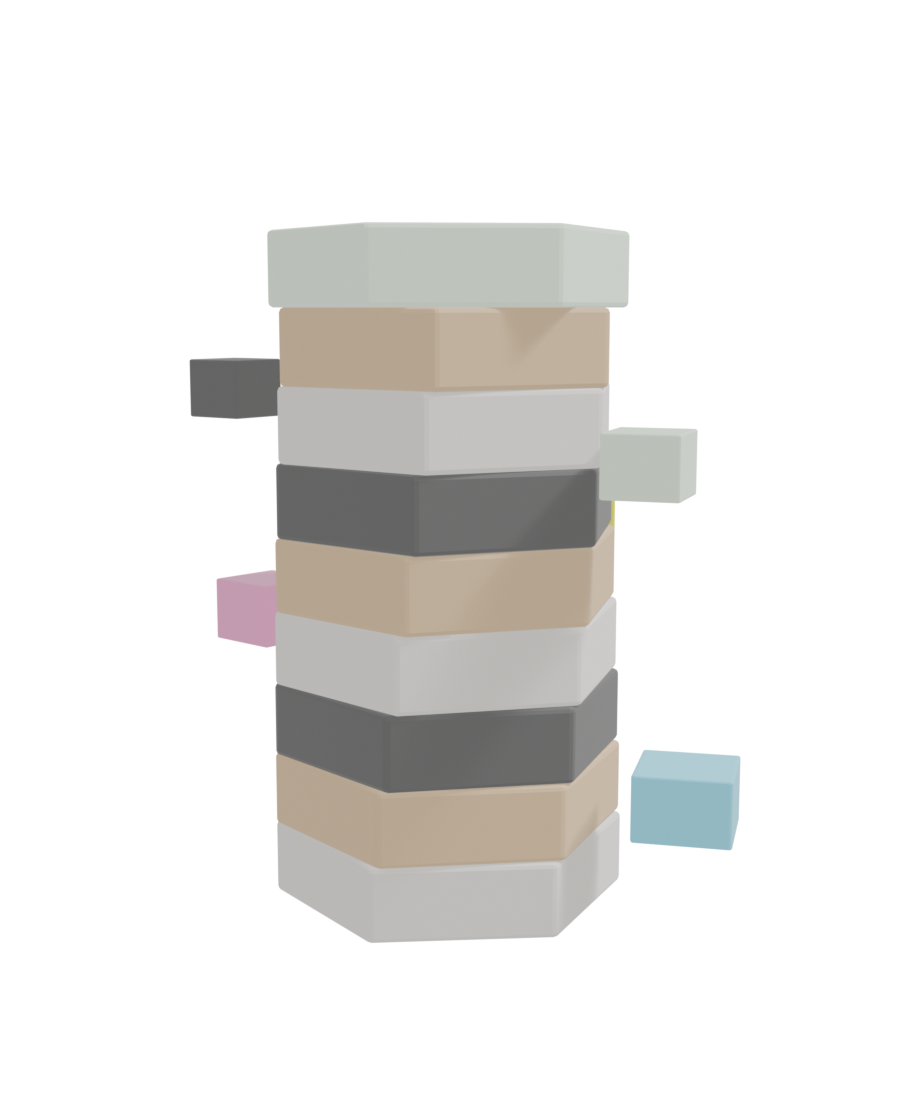
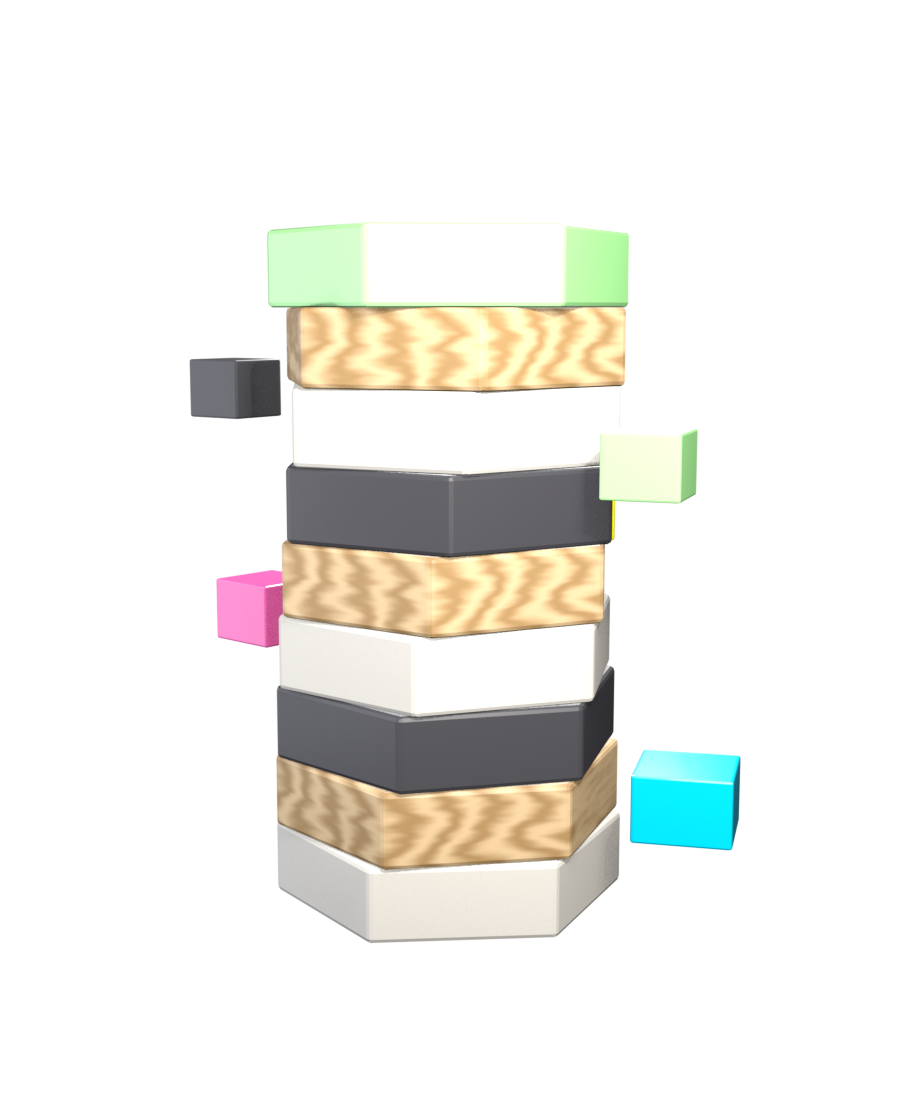
feat(site): photoreal Blender totem render as hero img (wood grain, speckled concrete, vivid accents, studio light); drop flaky WebGL path

Changed region(s): [[0.2178, 0.1875, 0.84, 0.8438]]

diff --git a/site/app/components/HeroScene.vue b/site/app/components/HeroScene.vue
@@ -1,105 +1,22 @@
 <script setup lang="ts">
-// The Blender totem render is a plain server-rendered <img> - it shows in every
-// browser with zero JS or WebGL. WebGL is pure enhancement: only if the GPU
-// actually draws pixels do we fade the image out and reveal the live canvas.
-const host = ref<HTMLElement | null>(null)
-const glReady = ref(false)
-let cleanup: (() => void) | null = null
-
-onMounted(async () => {
-  const el = host.value
-  if (!el) return
-  let THREE: typeof import('three')
-  try { THREE = await import('three') } catch { return }
-
-  let renderer: THREE.WebGLRenderer
-  try { renderer = new THREE.WebGLRenderer({ antialias: true, alpha: true, preserveDrawingBuffer: true }) } catch { return }
-
-  const reduce = window.matchMedia('(prefers-reduced-motion: reduce)').matches
-  const scene = new THREE.Scene()
-  const camera = new THREE.PerspectiveCamera(45, 1, 0.1, 100)
-  camera.position.set(0, 0.4, 7); camera.lookAt(0, 0, 0)
-  renderer.setPixelRatio(Math.min(window.devicePixelRatio, 1.75))
-  renderer.setClearColor(0x000000, 0)
-  renderer.outputColorSpace = THREE.SRGBColorSpace
-  el.appendChild(renderer.domElement)
-
-  scene.add(new THREE.AmbientLight(0xffffff, 0.9))
-  const key = new THREE.DirectionalLight(0xffffff, 2.3); key.position.set(4, 7, 6); scene.add(key)
-  const rim = new THREE.DirectionalLight(0xffffff, 0.7); rim.position.set(-5, 2, -4); scene.add(rim)
-
-  const m = (c: number, r = 0.85) => new THREE.MeshStandardMaterial({ color: c, roughness: r })
-  const concrete = m(0xd3cfc7, 0.95), wood = m(0xb0834a, 0.6), dark = m(0x1f1f1f, 0.5)
-  const mint = m(0xd1ffca, 0.4), yellow = m(0xfff100, 0.4), pink = m(0xff4fa0, 0.4), cyan = m(0x33c4ff, 0.4)
-  const group = new THREE.Group(); group.rotation.x = -0.16; scene.add(group)
-  const R = 1.25, H = 0.52, N = 8
-  const bands = [concrete, wood, dark, concrete, wood, dark, concrete, mint]
-  for (let i = 0; i < N; i++) {
-    const hex = new THREE.Mesh(new THREE.CylinderGeometry(R, R, H * 0.97, 6), bands[i])
-    hex.position.y = (i - (N - 1) / 2) * H; hex.rotation.y = i * 0.05; group.add(hex)
-  }
-  ;[cyan, pink, yellow, dark].forEach((mm, i) => {
-    const b = new THREE.Mesh(new THREE.BoxGeometry(0.85, 0.5, 0.85), mm)
-    const a = i * Math.PI / 2 + 0.4
-    b.position.set(Math.cos(a) * (R + 0.55), (i - 1.5) * H * 2, Math.sin(a) * (R + 0.55)); b.rotation.y = -a; group.add(b)
-  })
-
-  function resize() {
-    const w = el!.clientWidth || 480, h = el!.clientHeight || 480
-    renderer.setSize(w, h, false); camera.aspect = w / h; camera.updateProjectionMatrix()
-  }
-  resize()
-  const ro = new ResizeObserver(resize); ro.observe(el)
-  let visible = true
-  const io = new IntersectionObserver(([e]) => { visible = e.isIntersecting }, { threshold: 0.01 })
-  io.observe(el)
-
-  let checked = false
-  renderer.setAnimationLoop(() => {
-    if (!visible) return
-    if (!reduce) group.rotation.y += 0.006
-    renderer.render(scene, camera)
-    if (!checked) {
-      checked = true
-      let drew = false
-      try {
-        const gl = renderer.getContext()
-        const cw = renderer.domElement.width, chh = renderer.domElement.height
-        const buf = new Uint8Array(4 * 400)
-        gl.readPixels(Math.max(0, (cw >> 1) - 10), Math.max(0, (chh >> 1) - 10), 20, 20, gl.RGBA, gl.UNSIGNED_BYTE, buf)
-        for (let i = 3; i < buf.length; i += 4) { if (buf[i] > 8) { drew = true; break } }
-      } catch { drew = false }
-      if (drew) { glReady.value = true } else { renderer.setAnimationLoop(null); if (renderer.domElement.parentNode === el) el!.removeChild(renderer.domElement) }
-    }
-  })
-
-  cleanup = () => {
-    renderer.setAnimationLoop(null); io.disconnect(); ro.disconnect(); renderer.dispose()
-    if (renderer.domElement.parentNode === el) el!.removeChild(renderer.domElement)
-  }
-})
-
-onBeforeUnmount(() => cleanup?.())
+// Photoreal Blender-rendered totem as a plain <img> (server-rendered, works in
+// every browser - no WebGL, no canvas, interference-proof) with a subtle float.
 </script>
 
 <template>
   <div class="hero3d">
-    <img src="/hero-poster.png" class="poster" :class="{ hide: glReady }" alt="" aria-hidden="true">
-    <div ref="host" class="canvas-host" aria-hidden="true" />
+    <img src="/hero-poster.png" class="poster" alt="" aria-hidden="true">
   </div>
 </template>
 
 <style scoped>
 .hero3d { position: relative; width: 100%; height: min(64vw, 560px); min-height: 400px; }
 .poster {
-  position: absolute; inset: 0; width: 100%; height: 100%;
+  width: 100%; height: 100%;
   object-fit: contain; object-position: center;
-  transition: opacity .6s ease; animation: heroFloat 6s ease-in-out infinite;
+  animation: heroFloat 6.5s ease-in-out infinite;
 }
-.poster.hide { opacity: 0; }
-.canvas-host { position: absolute; inset: 0; }
-.canvas-host :deep(canvas) { width: 100%; height: 100%; display: block; }
-@keyframes heroFloat { 0%, 100% { transform: translateY(-7px); } 50% { transform: translateY(7px); } }
+@keyframes heroFloat { 0%, 100% { transform: translateY(-8px); } 50% { transform: translateY(8px); } }
 @media (prefers-reduced-motion: reduce) { .poster { animation: none; } }
 @media (max-width: 900px) { .hero3d { height: 440px; } }
 </style>
